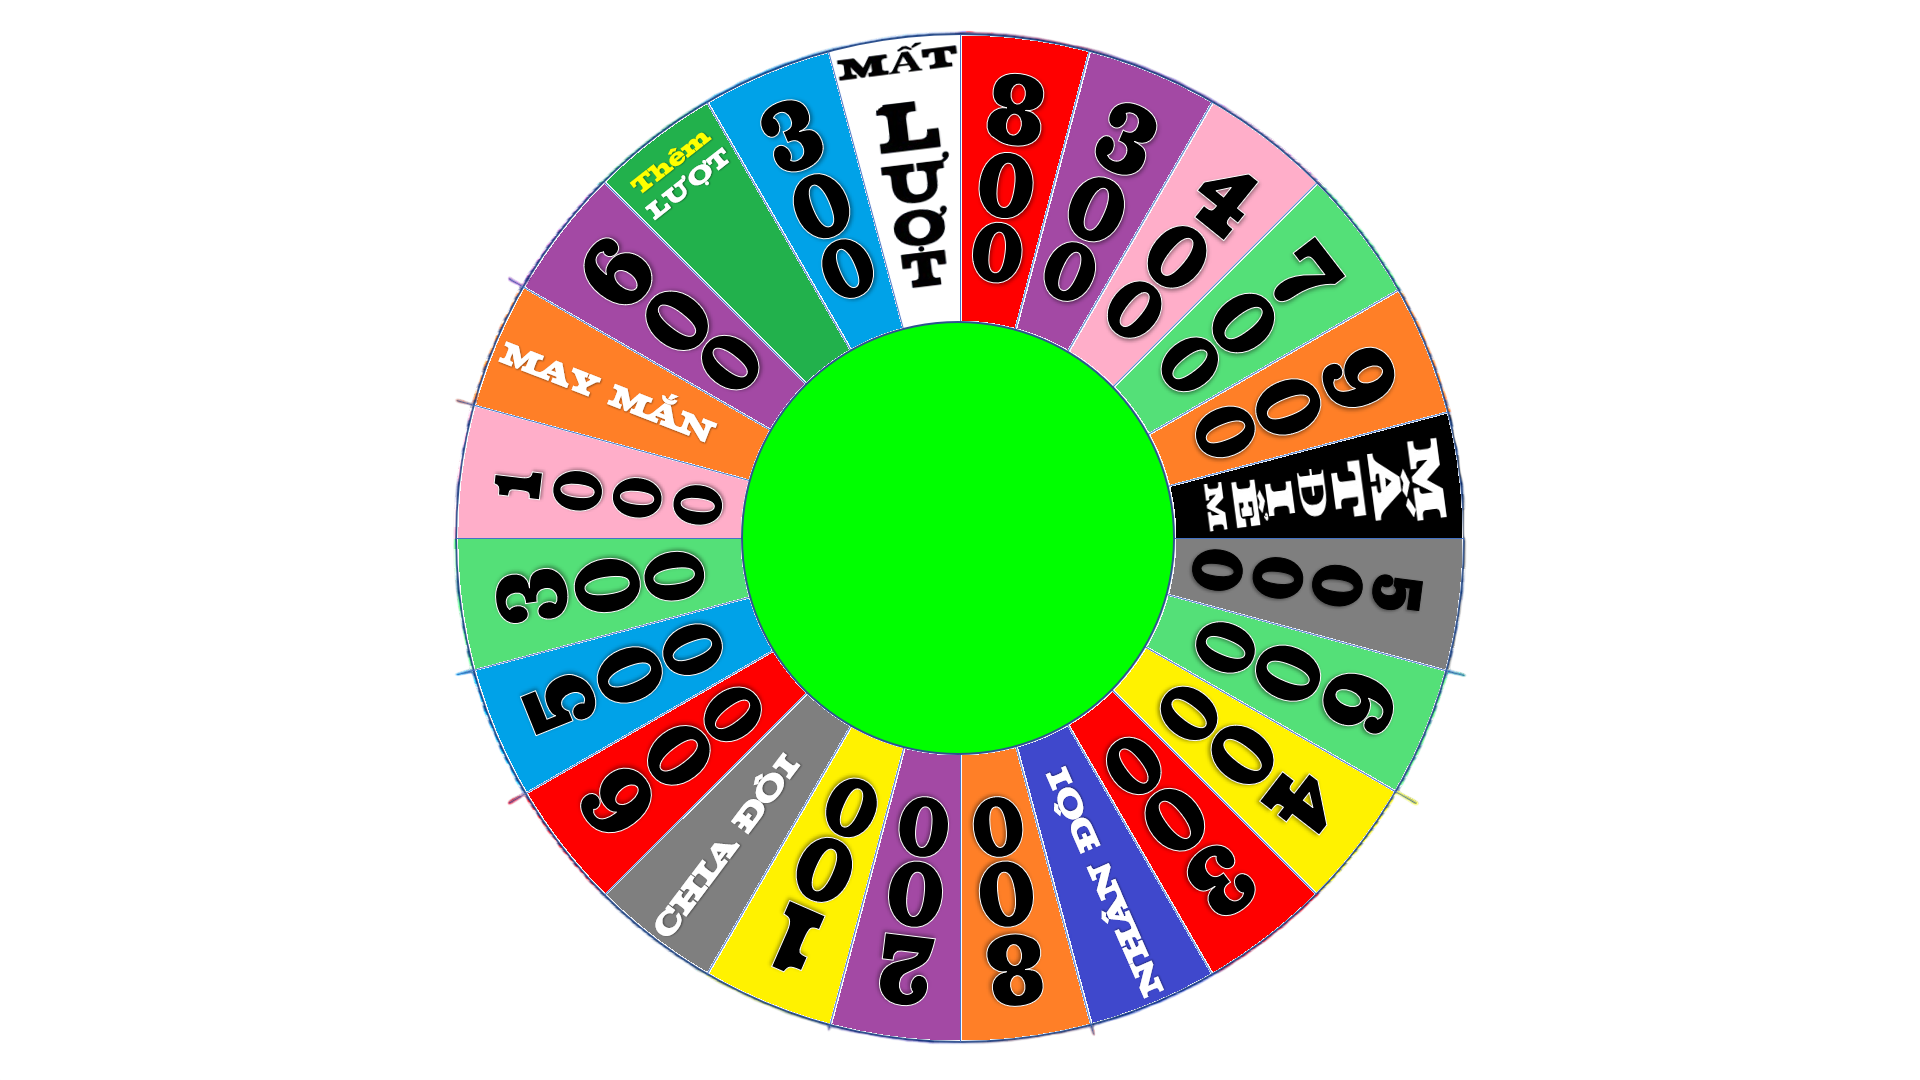
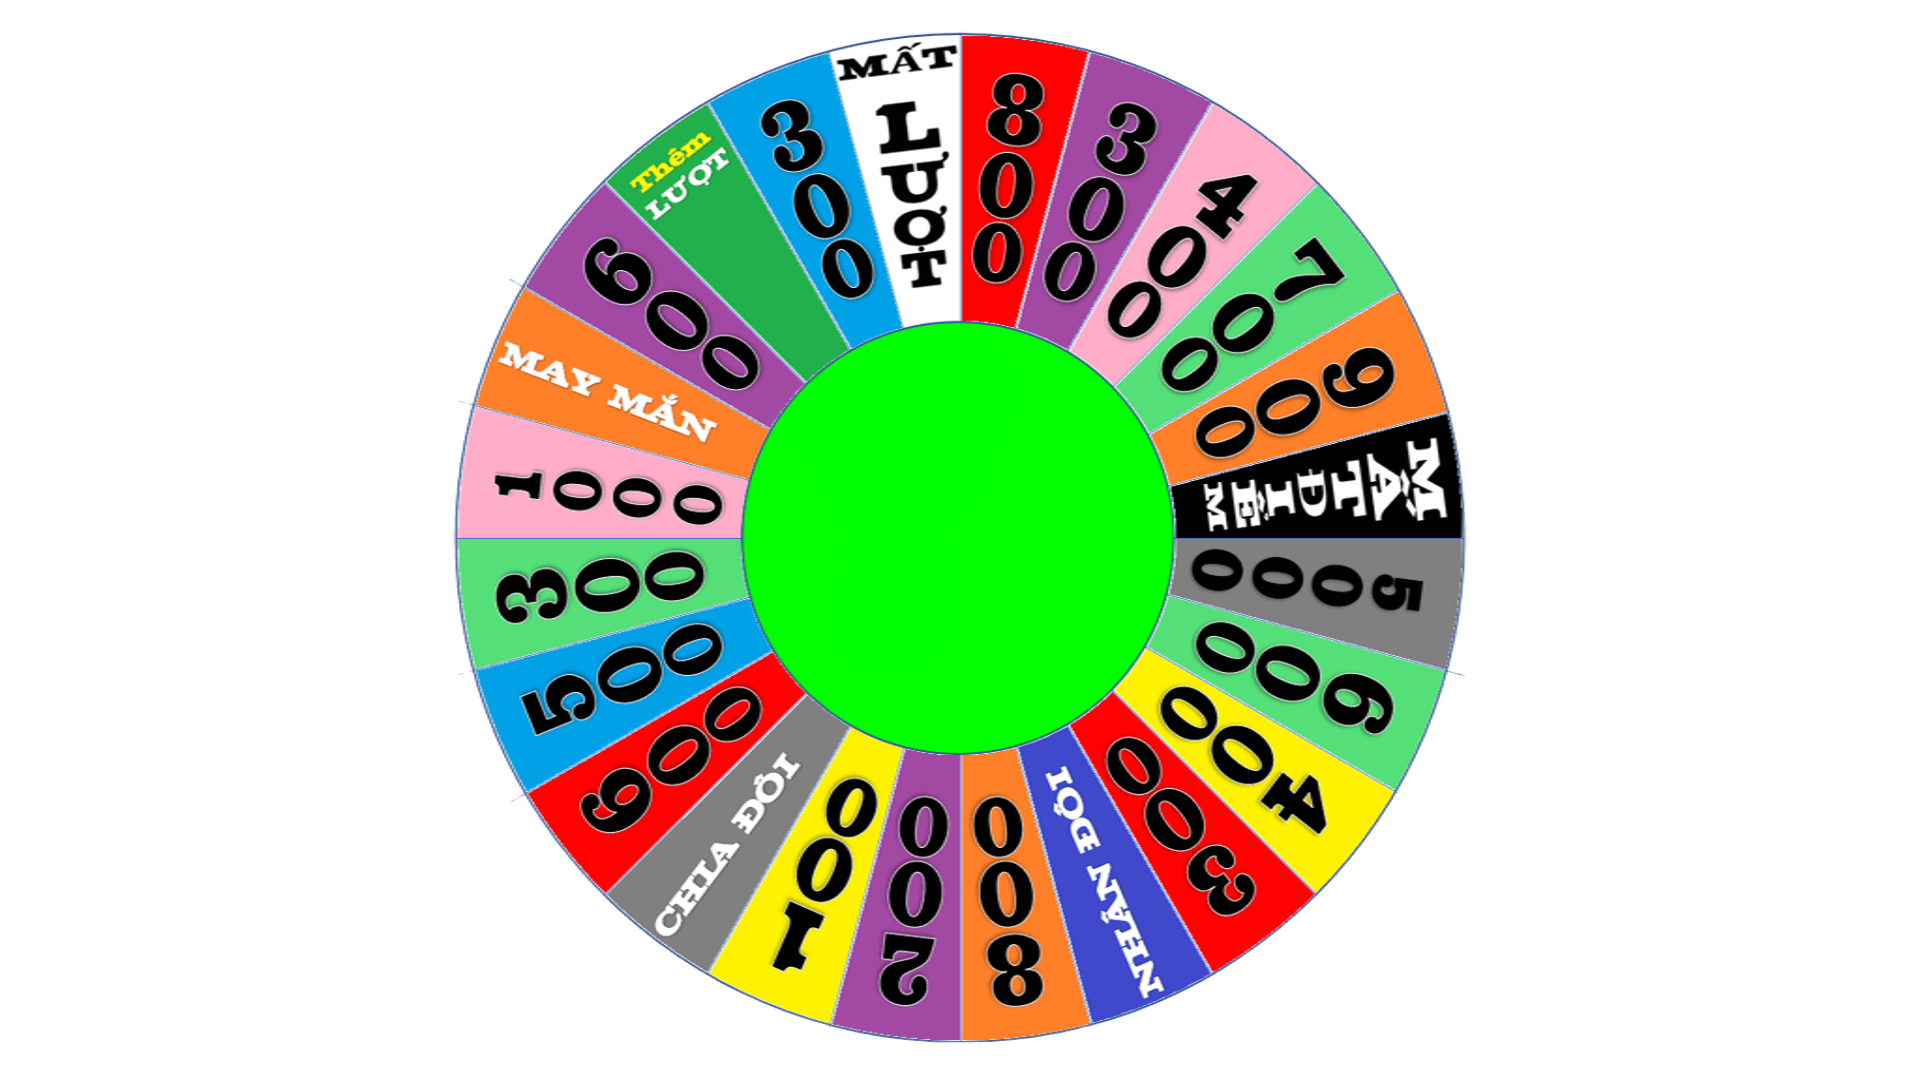
Add files via upload

diff --git a/Controller.html b/Controller.html
@@ -380,9 +380,9 @@
           { id: 'o100k_2', name: 'Ô 100.000 (Kiểu 2)', file: 'Ô 100000 2.png', angles: [127.5, 142.5] },
           { id: 't_ch', name: 'Thẻ Cơ hội', file: 'Thẻ Cơ hội.png', angles: [7.5, 22.5, 82.5], isCard: true },
           { id: 't_qn', name: 'Thẻ Quyền năng', file: 'Thẻ Quyền năng.png', angles: [112.5, 277.5, 292.5], isCard: true },
-          { id: 'pn3', name: 'Ô Phần thưởng (Kiểu 3)', file: 'Ô Phần thưởng 3.png', angles: [37.5, 142.5] },
-          { id: 'bm1_3', name: 'Ô bí mật 1 (Kiểu 3)', file: 'Ô Bí Mật 3.png', angles: [37.5] },
-          { id: 'bm2_3', name: 'Ô bí mật 2 (Kiểu 3)', file: 'Ô Bí Mật 3.png', angles: [217.5] },
+          { id: 'pn3', name: 'Ô Phần thưởng (Kiểu 3)', file: 'Ô Phần thưởng 3.png', angles: [22.5] },
+          { id: 'bm1_3', name: 'Ô bí mật 1 (Kiểu 3)', file: 'Ô Bí Mật 3.png', angles: [247.5] },
+          { id: 'bm2_3', name: 'Ô bí mật 2 (Kiểu 3)', file: 'Ô Bí Mật 3.png', angles: [337.5] },
           { id: 'o2500', name: 'Ô 2.500', file: 'Ô 2500.png', angles: [97.5] },
           { id: 'o3500', name: 'Ô 3.500', file: 'Ô 3500.png', angles: [97.5] },
         ];
